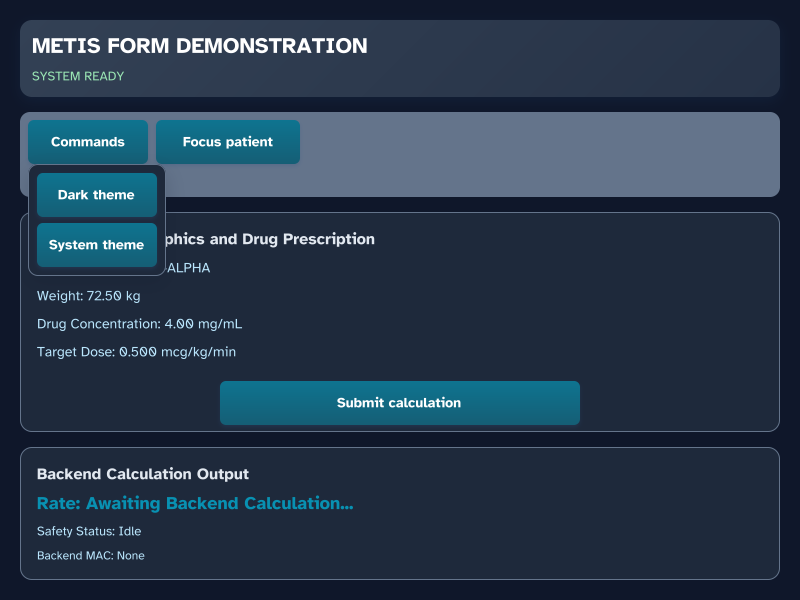
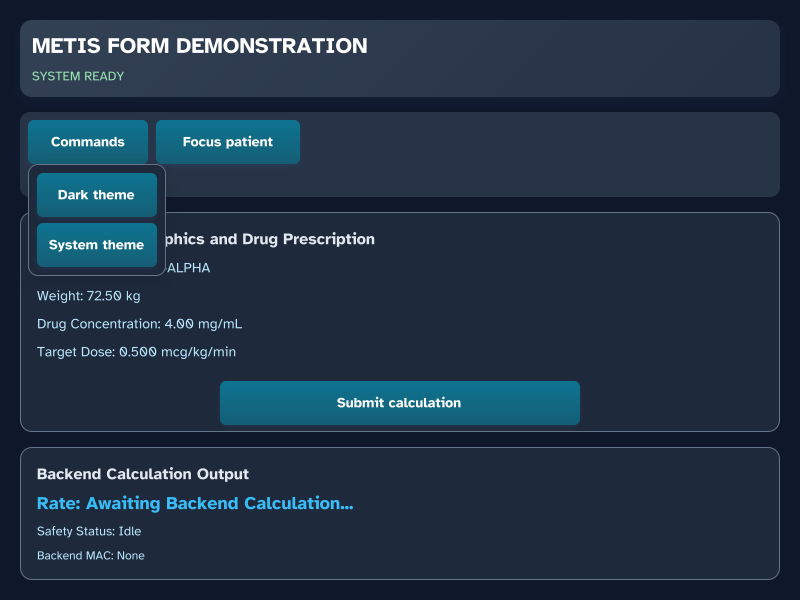
fix(ui): Meet text contrast on every themed panel
The rate readout accent measured 4.03:1 (light) and 3.97:1 (dark) on
its card and the dark command bar's muted text 3.59:1, below the 4.5:1
WCAG 2.2 1.4.3 needs at these sizes. The command bar takes its own
panel color instead of the border color, and the accent darkens (light)
or lightens (dark) to 5.42:1 and 6.83:1.

Item: METIS-THEME-CONTRAST-001

Changed region(s): [[0.0, 0.18, 1.0, 0.33], [0.0312, 0.81, 0.4375, 0.87]]

diff --git a/crates/metis-frontend/src/presentation/theme.rs b/crates/metis-frontend/src/presentation/theme.rs
@@ -12,7 +12,7 @@ impl<T: IpcTransport> FrontendApp<T> {
         let palette = ThemePalette::for_theme(self.theme);
         self.set_background("main-screen", palette.page)?;
         self.set_gradient("header", &palette.header)?;
-        self.set_background("application-navigation", palette.border)?;
+        self.set_background("application-navigation", palette.panel)?;
         self.set_background("command-menu", palette.surface)?;
         self.set_background("patient-card", palette.surface)?;
         self.set_background("results-card", palette.surface)?;
@@ -122,6 +122,8 @@ fn ramp(degrees: f64, from: Color, to: Color) -> LinearGradient {
         .expect("invariant: two stops at a finite angle form a gradient")
 }
 
+/// Theme colors. Every text color meets WCAG 2.2 criterion 1.4.3 on the
+/// fill it is painted over, as the theme contrast tests assert.
 struct ThemePalette {
     page: Color,
     surface: Color,
@@ -129,7 +131,9 @@ struct ThemePalette {
     text: Color,
     muted: Color,
     border: Color,
-    /// Text accent.
+    /// Fill of the command bar, which carries muted status text.
+    panel: Color,
+    /// Rate readout color.
     accent: Color,
     /// Command control fill; every stop keeps white labels at a 4.5:1
     /// contrast or better (WCAG 2.2 criterion 1.4.3).
@@ -146,7 +150,8 @@ impl ThemePalette {
                 text: Color::rgb(45, 55, 72),
                 muted: Color::rgb(74, 85, 104),
                 border: Color::rgb(226, 232, 240),
-                accent: Color::BLUE,
+                panel: Color::rgb(226, 232, 240),
+                accent: Color::rgb(43, 108, 176),
                 control: ramp(180.0, Color::rgb(44, 120, 196), Color::rgb(38, 98, 168)),
             },
             ApplicationTheme::Dark => ThemePalette {
@@ -156,7 +161,8 @@ impl ThemePalette {
                 text: Color::rgb(226, 232, 240),
                 muted: Color::rgb(186, 230, 253),
                 border: Color::rgb(100, 116, 139),
-                accent: Color::rgb(8, 145, 178),
+                panel: Color::rgb(39, 52, 72),
+                accent: Color::rgb(56, 189, 248),
                 control: ramp(180.0, Color::rgb(14, 116, 144), Color::rgb(21, 94, 117)),
             },
         }

diff --git a/crates/metis-frontend/src/presentation/theme_tests.rs b/crates/metis-frontend/src/presentation/theme_tests.rs
@@ -73,6 +73,37 @@ fn status_badge_colors_stay_legible_over_both_headers() {
 }
 
 #[test]
+fn themed_text_meets_its_size_threshold_on_its_panel() {
+    // Every themed run is below the large-text bounds (24 px regular,
+    // 18.66 px bold): headings are 16 px bold and the rate readout 18 px
+    // bold, so each pair needs 4.5:1.
+    for theme in [ApplicationTheme::System, ApplicationTheme::Dark] {
+        let palette = ThemePalette::for_theme(theme);
+        let pairs = [
+            (
+                "command status on the command bar",
+                palette.muted,
+                palette.panel,
+            ),
+            (
+                "labels and output lines on a card",
+                palette.muted,
+                palette.surface,
+            ),
+            ("headings on a card", palette.text, palette.surface),
+            ("rate readout on a card", palette.accent, palette.surface),
+        ];
+        for (name, text, background) in pairs {
+            let ratio = contrast(text, background);
+            assert!(
+                ratio >= 4.5,
+                "{theme:?} {name}: {text:?} on {background:?} gives {ratio:.2}:1"
+            );
+        }
+    }
+}
+
+#[test]
 fn contrast_matches_the_published_reference_points() {
     // WCAG's end points: white on black is 21:1 and white on white 1:1.
     assert!((white_contrast(Color::BLACK) - 21.0).abs() < 1e-12);

diff --git a/crates/metis-frontend/src/presentation.rs b/crates/metis-frontend/src/presentation.rs
@@ -50,7 +50,7 @@ pub const CLINICAL_SCREEN_XML: &str = r#"<screen id="main-screen" style="display
 
   <card id="results-card" style="display: flex; flex-direction: column; background-color: #ffffff; padding: 16px; border-width: 1px; border-color: #e2e8f0; border-radius: 12px; gap: 8px; box-shadow: 0 2px 10px #0f172a1f;">
     <text id="results-heading" style="color: #2d3748; font-size: 16px; font-weight: bold;">Backend Calculation Output</text>
-    <text id="output-rate" style="color: #3182ce; font-size: 18px; font-weight: bold;">Rate: Awaiting Backend Calculation...</text>
+    <text id="output-rate" style="color: #2b6cb0; font-size: 18px; font-weight: bold;">Rate: Awaiting Backend Calculation...</text>
     <text id="output-status" style="color: #718096; font-size: 13px;">Safety Status: Idle</text>
     <text id="output-signature" style="color: #718096; font-size: 12px;">Backend MAC: None</text>
   </card>
